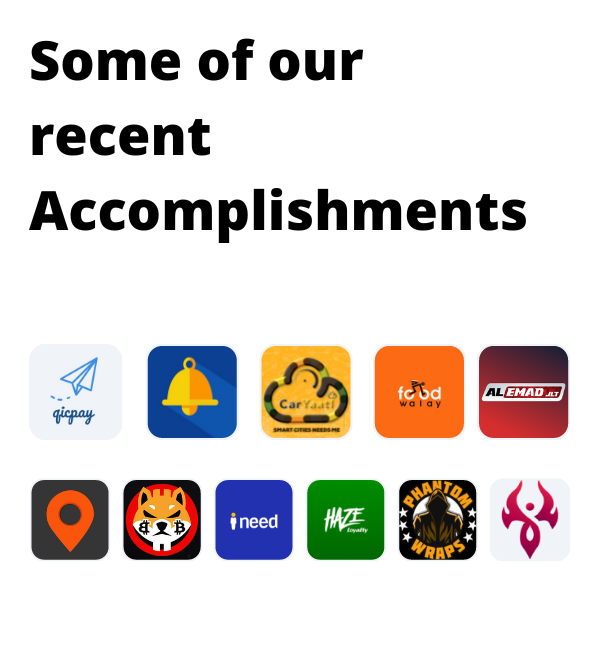
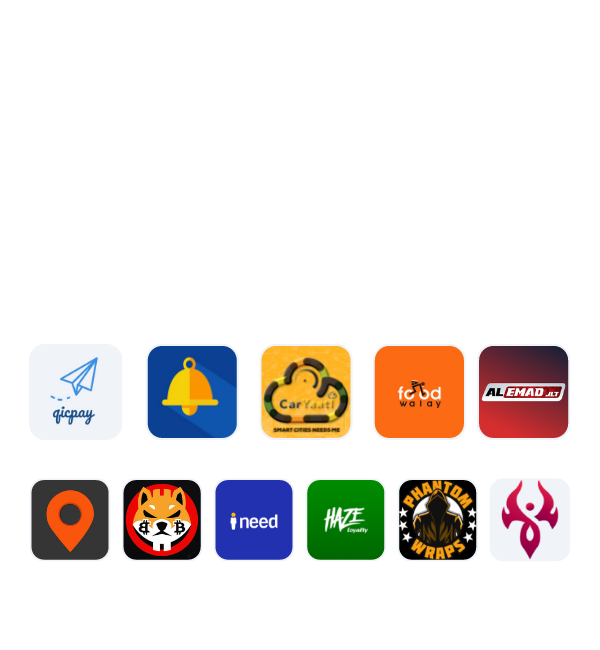
fix

diff --git a/index.html b/index.html
@@ -163,14 +163,7 @@
                     <img src="assets/images/web-mockup.png" alt="" />
                 </div>
                 <div class="next-proces-box wow fadeIn">
-                    <div class="row">
-                        <div class="col-md-3">
-                            <h4>heylink</h4>
-                        </div>
-                        <div class="col-md-9">
-                            <p>Customer Success for B2B SaaS</p>
-                        </div>
-                    </div>
+                    
 
                     <img src="assets/images/client-mockup.png" alt="" />
                 </div>

diff --git a/assets/css/style.css b/assets/css/style.css
@@ -342,9 +342,9 @@ clip-path: polygon(0 0, 100% 0%, 78% 100%, 0 100%);
 }
 .next-proces-box img{
     width: 100%;
-    object-fit: contain;
+    object-fit: cover;
     transition: 0.6s ease-out;
-    margin-top: 40px;
+    margin-top: 20px;
 }
 .next-proces-box:hover img{
     transform: scale(1.1);
@@ -358,7 +358,11 @@ clip-path: polygon(0 0, 100% 0%, 78% 100%, 0 100%);
     color: white;
 }
 .next-process-row .next-proces-box:nth-child(3){
-    background:#2ebbff;
+    background:#3a9355;
+    color: white;
+}
+.next-process-row .next-proces-box:nth-child(4){
+    background:#4090e2;
     color: white;
 }
 
